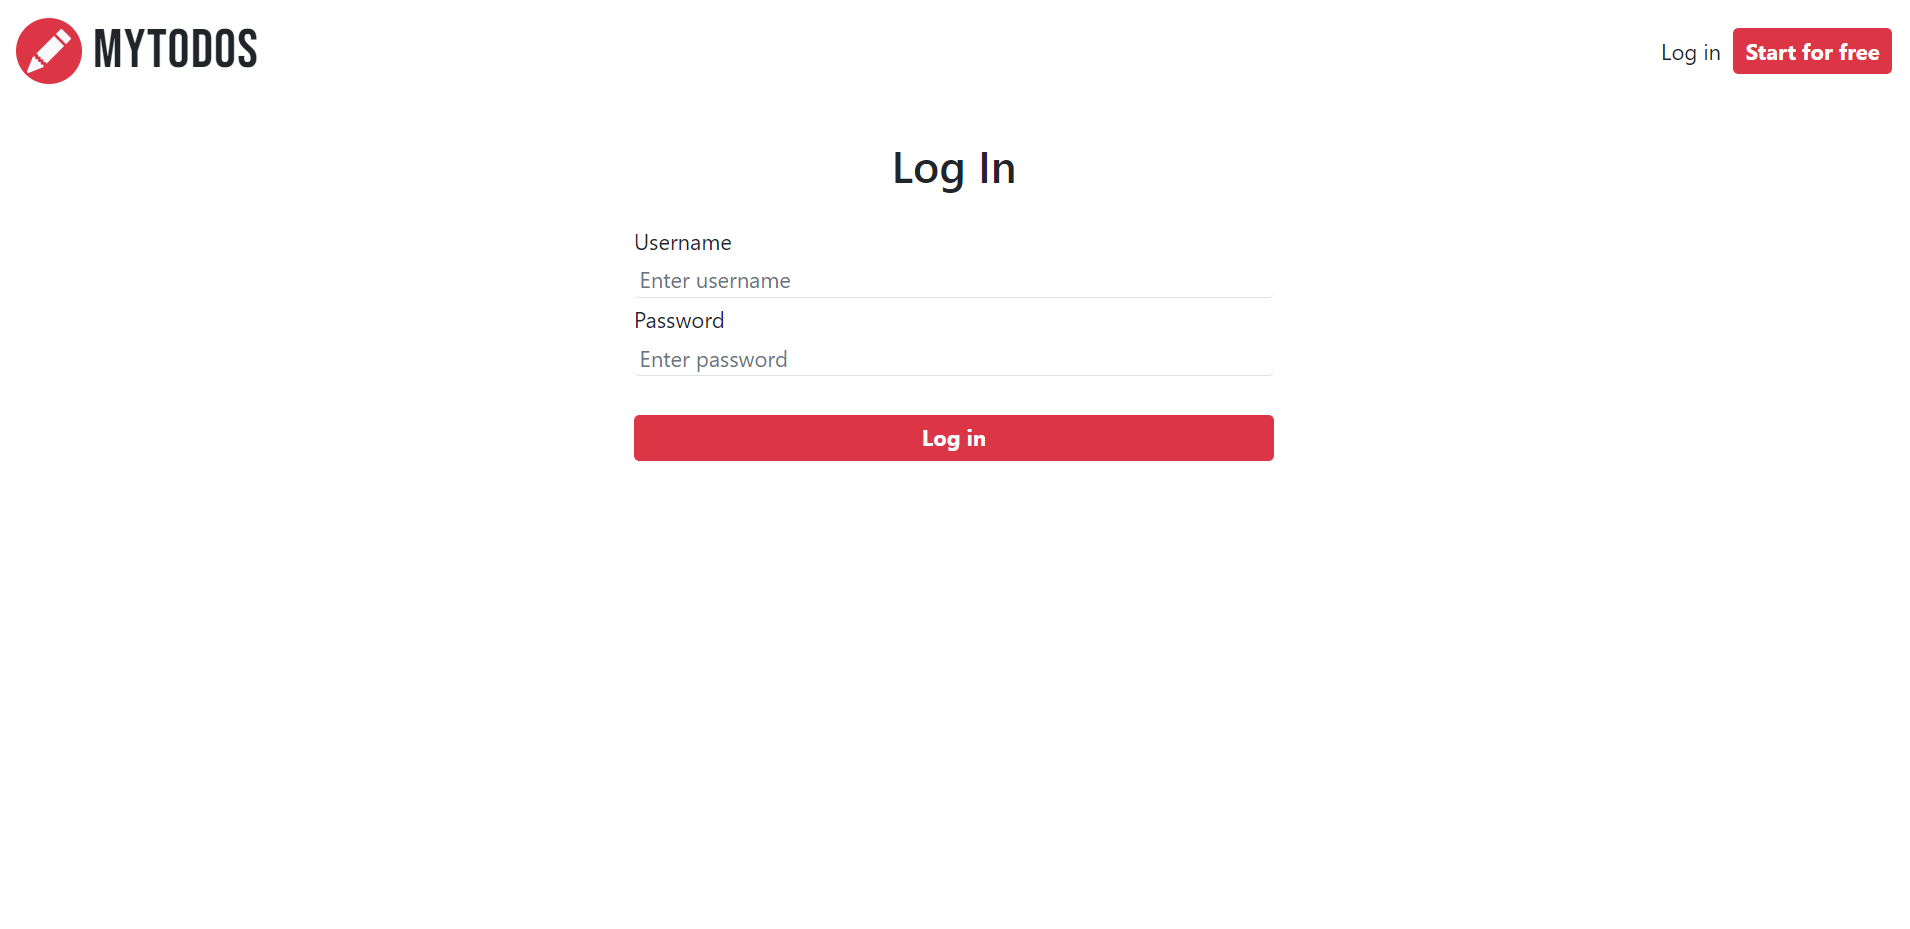
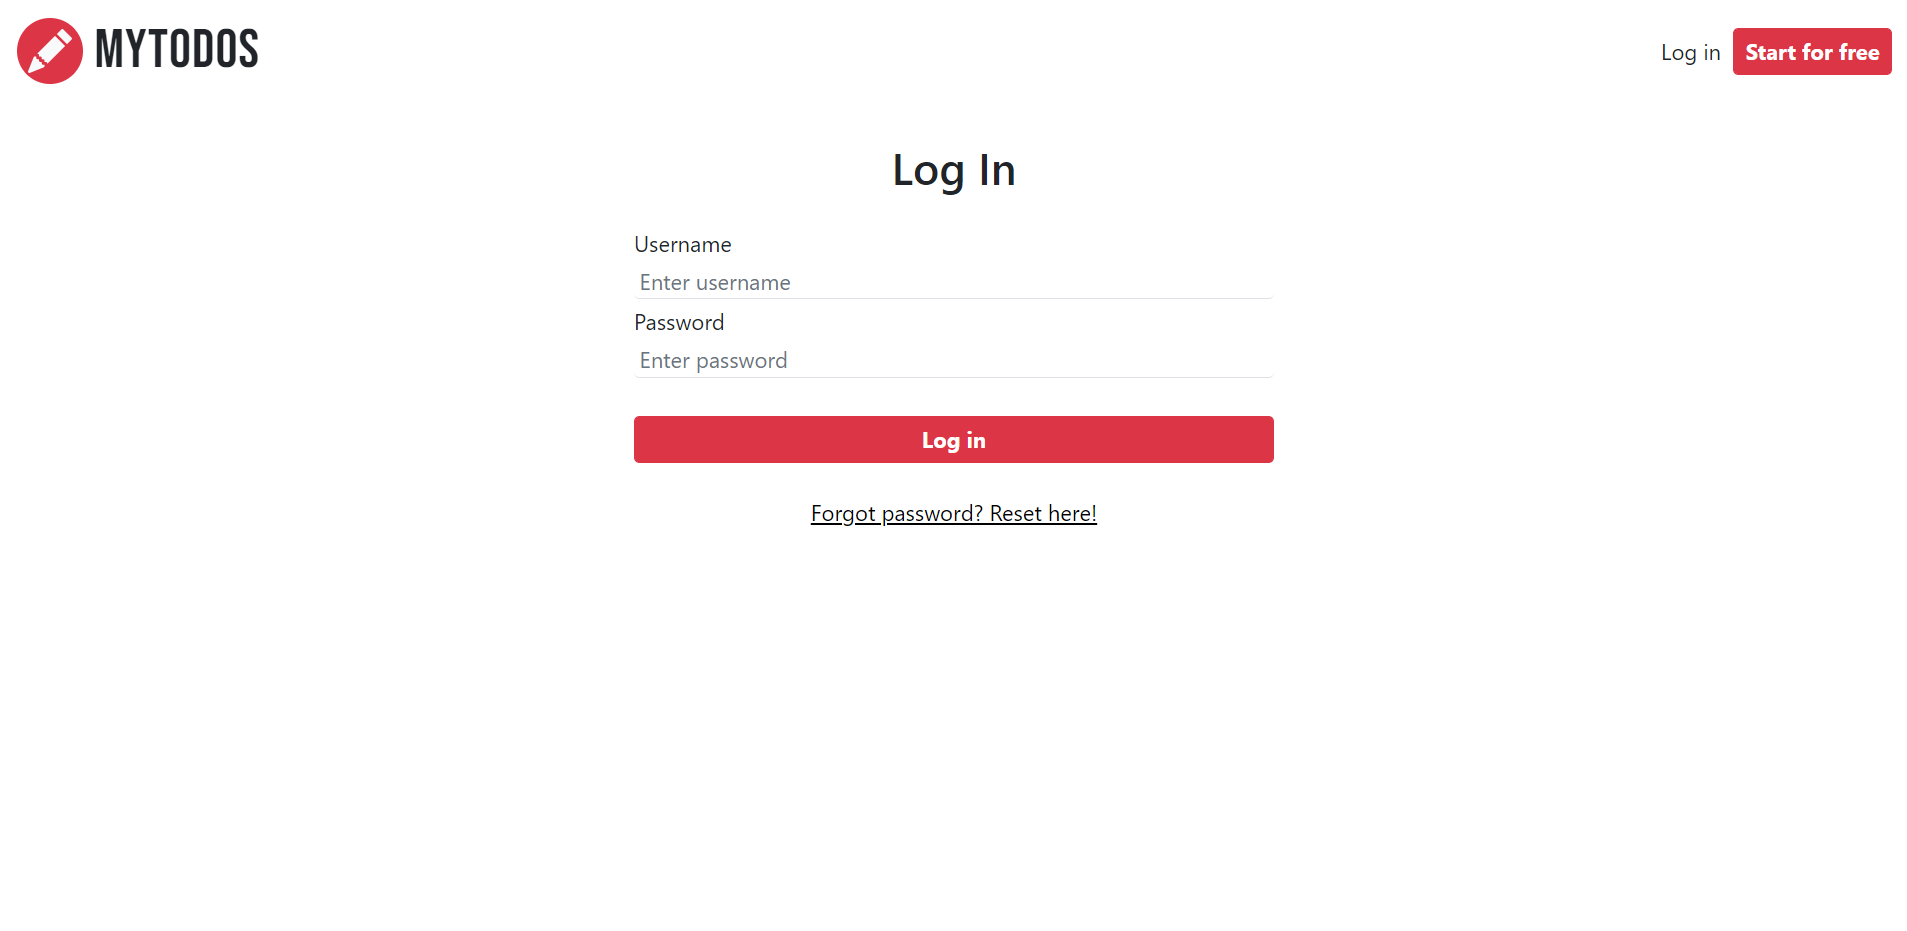
web - reset password

diff --git a/frontend/src/views/ResetPassword.vue b/frontend/src/views/ResetPassword.vue
@@ -11,8 +11,8 @@
     </header>
 
     <main class="d-flex flex-column align-items-center">
-      <h2 class="my-4">Log In</h2>
-      <BForm class="col-8 col-md-4" @submit.prevent="login">
+      <h2 class="my-4">Getting a new password</h2>
+      <BForm class="col-8 col-md-4" @submit.prevent="reset">
         <BFormGroup label="Username" label-for="input-username">
           <BFormInput
             id="input-username"
@@ -23,23 +23,35 @@
             required
           />
         </BFormGroup>
+        <BFormGroup label="Email" label-for="input-email">
+          <BFormInput
+            id="input-email"
+            class="my-1 px-1 border-0 border-bottom"
+            type="email"
+            v-model="form.email"
+            placeholder="Enter email"
+            required
+          />
+        </BFormGroup>
         <BFormGroup label="Password" label-for="input-password">
           <BFormInput
             id="input-password"
             class="my-1 px-1 border-0 border-bottom"
             type="password"
-            v-model="form.password"
+            v-model="form.newPassword"
             placeholder="Enter password"
             required
           />
         </BFormGroup>
         <button class="col-12 px-2 py-1 mt-4 btn btn-danger fw-bold">
-          Log in
+          Set as new password
         </button>
       </BForm>
-      <router-link :to="{ name: 'ResetPassword' }" class="mt-4"
-        >Forgot password? Reset here!</router-link
-      >
+      <div class="mt-4 col-4">
+        <p class="alert alert-success p-1" role="alert" v-if="message">
+          {{ message }}
+        </p>
+      </div>
     </main>
   </div>
 </template>
@@ -51,13 +63,15 @@ import { BForm, BFormGroup, BFormInput } from "bootstrap-vue";
 import { mapActions } from "vuex";
 
 export default {
-  name: "Login",
+  name: "ResetPassword",
   data() {
     return {
       form: {
         username: "",
-        password: "",
+        email: "",
+        newPassword: "",
       },
+      message: "",
     };
   },
   methods: {
@@ -67,10 +81,10 @@ export default {
     goLogin() {
       router.push({ name: "Login" });
     },
-    login() {
-      this.logAccount(this.form).then(() => location.reload());
+    reset() {
+      this.resetPassword(this.form).then((text) => (this.message = text));
     },
-    ...mapActions(["logAccount"]),
+    ...mapActions(["resetPassword"]),
   },
   components: {
     Logo,
@@ -81,8 +95,4 @@ export default {
 };
 </script>
 
-<style scoped>
-a {
-  color: black;
-}
-</style>
+<style scoped></style>

diff --git a/frontend/src/views/Register.vue b/frontend/src/views/Register.vue
@@ -43,7 +43,6 @@
             required
           />
         </BFormGroup>
-
         <BFormGroup label="Password" label-for="input-password">
           <div class="d-flex align-items-center">
             <b-input-group-prepend is-text @click="changeVisibilityPassword">
@@ -107,14 +106,6 @@ import { mapActions } from "vuex";
 
 export default {
   name: "Register",
-  components: {
-    Logo,
-    BForm,
-    BFormGroup,
-    BFormInput,
-    BIconEye,
-    BIconEyeSlash,
-  },
   data() {
     return {
       form: {
@@ -155,24 +146,21 @@ export default {
       } else {
         this.message = "";
         this.error = "";
-        this.registerAccount(this.form)
-          .then((text) => {
-            this.message = text;
-            this.logAccount(this.form)
-              .then(() => location.reload())
-              .catch((text) => (this.error = text));
-            this.form = {
-              username: "",
-              name: "",
-              email: "",
-              password: "",
-              confPassword: "",
-            };
-          })
-          .catch((text) => (this.error = text));
+        this.registerAccount(this.form).then((text) => {
+          this.message = text;
+          this.logAccount(this.form).then(() => location.reload());
+        });
       }
     },
     ...mapActions(["registerAccount", "logAccount"]),
+  },
+  components: {
+    Logo,
+    BForm,
+    BFormGroup,
+    BFormInput,
+    BIconEye,
+    BIconEyeSlash,
   },
 };
 </script>

diff --git a/frontend/src/store/index.js b/frontend/src/store/index.js
@@ -25,7 +25,7 @@ export default new Vuex.Store({
         const response = await api.post("/users", payload);
         return response.data.message;
       } catch ({ response }) {
-        return response.data.error;
+        alert(response.data.error);
       }
     },
     async logAccount(context, payload) {
@@ -33,6 +33,16 @@ export default new Vuex.Store({
         const response = await api.post("/users/login", payload);
         if (response.data.success) {
           context.commit("SET_TOKEN", response.data.authKey);
+        }
+      } catch ({ response }) {
+        alert(response.data.error);
+      }
+    },
+    async resetPassword(context, payload) {
+      try {
+        const response = await api.patch("/users/reset", payload);
+        if (response.data.success) {
+          return response.data.message;
         }
       } catch ({ response }) {
         alert(response.data.error);

diff --git a/frontend/src/router/index.js b/frontend/src/router/index.js
@@ -3,6 +3,7 @@ import VueRouter from "vue-router";
 import Home from "../views/Home.vue";
 import Register from "../views/Register.vue";
 import Login from "../views/Login.vue";
+import ResetPassword from "../views/ResetPassword.vue";
 import Landing from "../views/Landing.vue";
 
 import store from "../store";
@@ -30,6 +31,14 @@ const routes = [
     path: "/login",
     name: "Login",
     component: Login,
+    meta: {
+      requiresAuth: false,
+    },
+  },
+  {
+    path: "/reset",
+    name: "ResetPassword",
+    component: ResetPassword,
     meta: {
       requiresAuth: false,
     },
